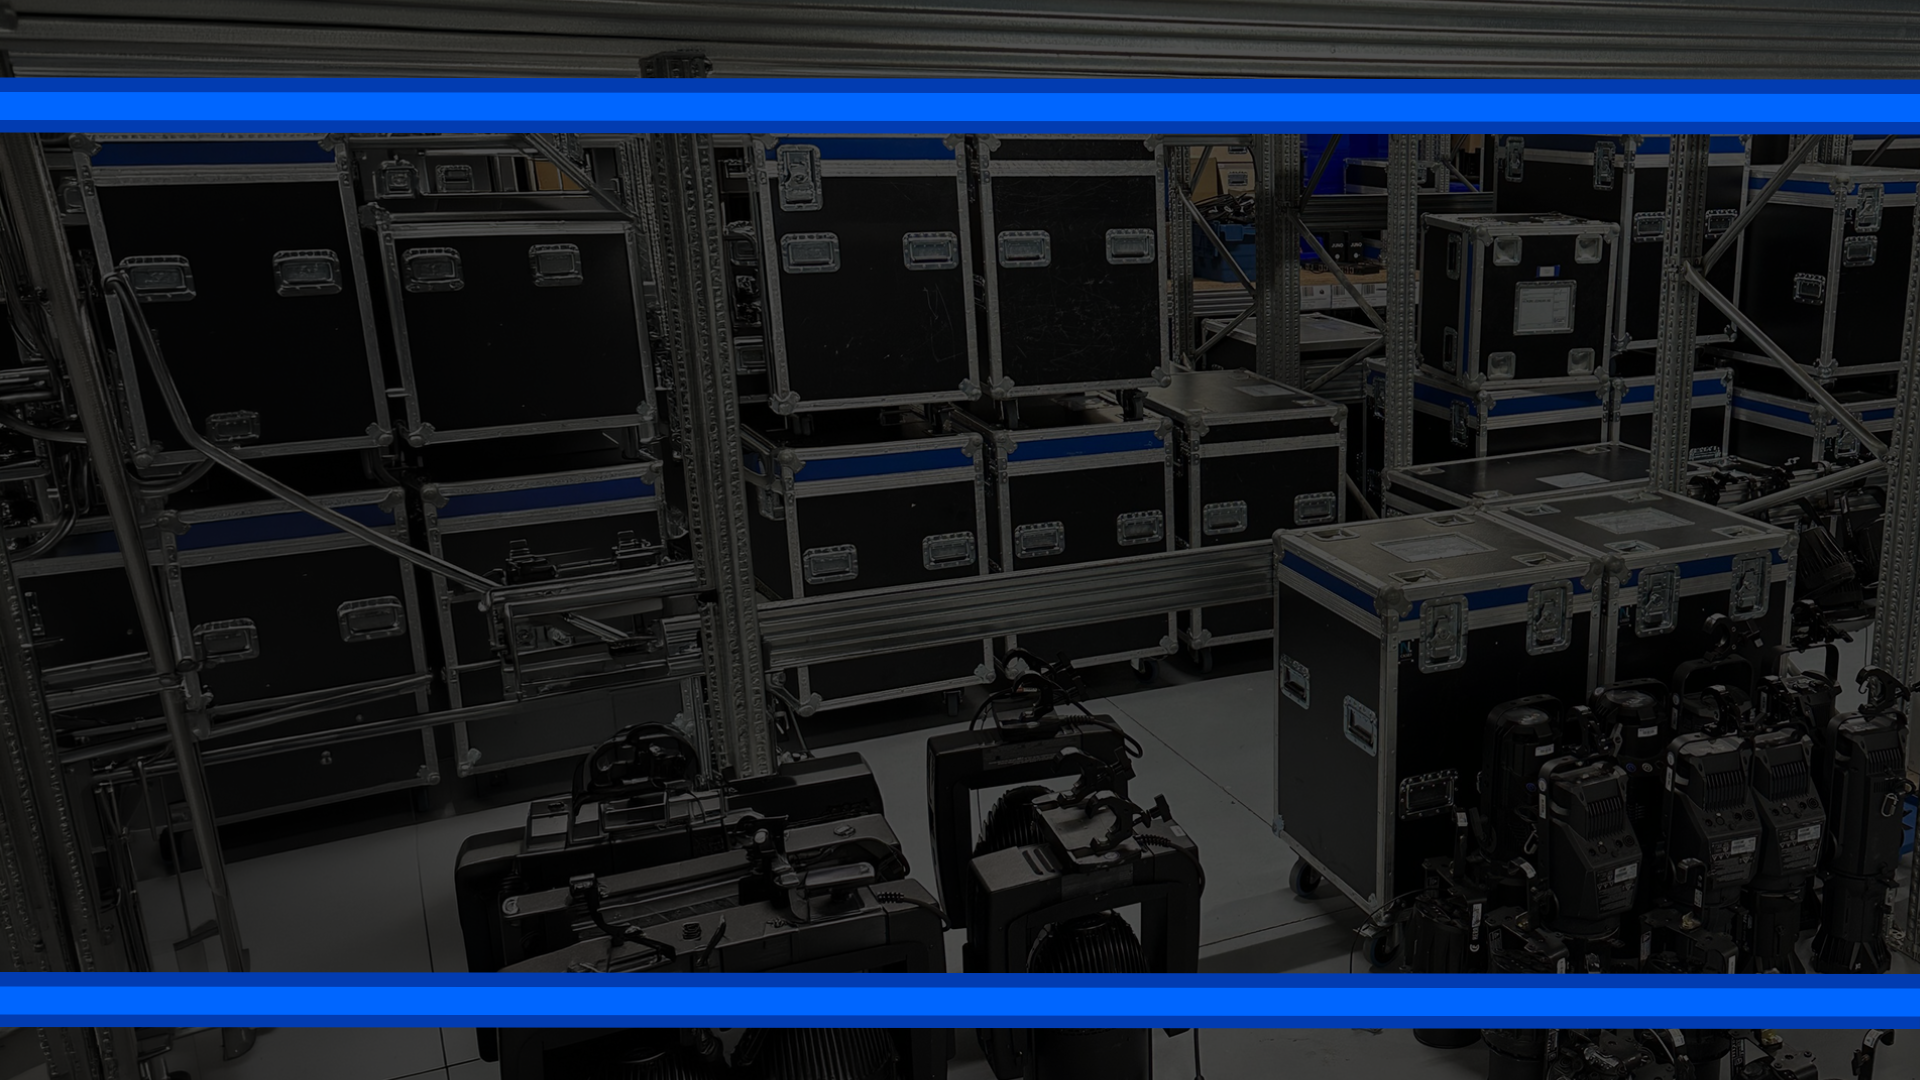
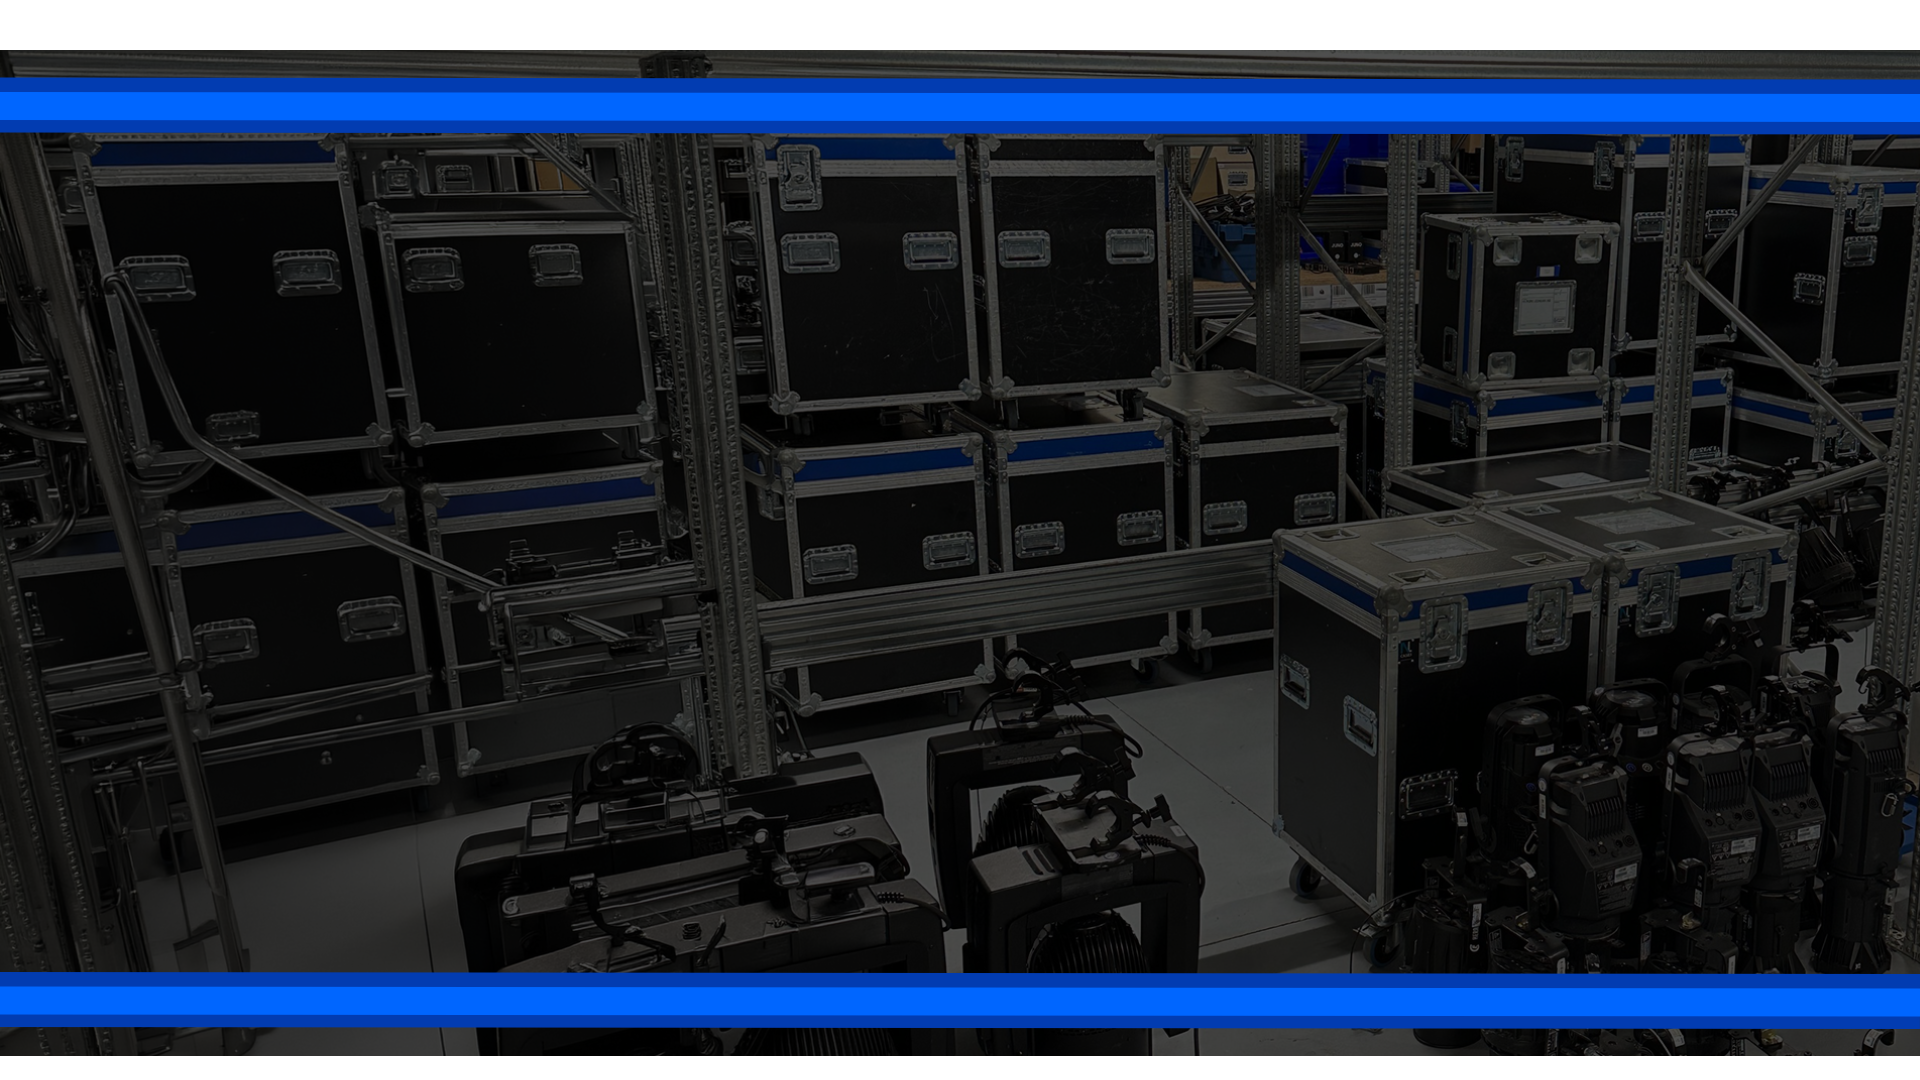
update

Changed region(s): [[0.0, 0.0, 1.0, 0.0611], [0.0, 0.9778, 1.0, 1.0]]

diff --git a/css/styles.css b/css/styles.css
@@ -154,7 +154,7 @@ header {
 /* BACKGROUND IMAGE */
 .hero-bg {
   position: absolute;
-  top: 50%;
+  top: 45%;
   left: 50%;
   transform: translate(-50%, -50%);
   
@@ -163,15 +163,6 @@ header {
   object-fit: cover;
 
   z-index: 0;
-}
-
-/* DARK OVERLAY FOR READABILITY */
-.hero::before {
-  content: "";
-  position: absolute;
-  inset: 0;
-  background: rgba(0, 0, 0, 0.5);
-  z-index: 1;
 }
 
 /* TEXT ABOVE EVERYTHING */
@@ -189,8 +180,33 @@ header {
 		0 0 .5em white;
 }
 
+.hero-title h1{
+	font-family: "Roboto Slab";
+	font-size: 5rem;
+}
 
+.hero-title h1 {
+  position: relative;
+  color: white;
+  font-weight: 700;
+}
 
+.hero-title h1::after {
+  content: attr(data-text);
+  position: absolute;
+  top: 3px;
+  left: 0;
+  color: #1800ad;
+  z-index: -1;
+	transform: translateX(3px);
+}
+
+.hero-subtitle{
+	font-family: "Roboto";
+	font-weight: 350;
+	font-size: 1.5rem;
+	
+}
 
 /* Footer CSS */
 
@@ -199,7 +215,7 @@ header {
 }
 
 footer img {
-  max-height: 80px;
+  max-height: 300px;
   width: auto;
   display: block;
 }

diff --git a/index.html b/index.html
@@ -128,16 +128,10 @@
   <img class="hero-bg" src="images/home/flightcases.png" alt="Hero section background">
 
   <!-- CONTENT -->
-  <div class="hero-content">
-    <h1>Events Light</h1>
-    <h5 class="fst-italic mb-5">Coming soon…</h5>
-
-    <div class="container">
-      <p>This is a page you can use as a placeholder for your future website.</p>
-      <p>Once published (which should be at the end of week 5 of the project), it can be fully integrated within your marketing campaign.</p>
-      <p>You will then replace this landing page by a full website.</p>
-      <p>To build your website, you can start with the <a href="example.html">example</a> or pick and mix elements from the UX pattern pages of this website (check menu above).</p>
-    </div>
+  <div class="hero-content hero-title">
+    <h1 data-text="Where your work touches and surprises people!"> Where your work touches <br> and surprises people!</h1>
+	  <br>
+    <h5 class="mb-5 hero-subtitle">Welcome behind the scenes at Events Light!</h5>
   </div>
 
 </main>